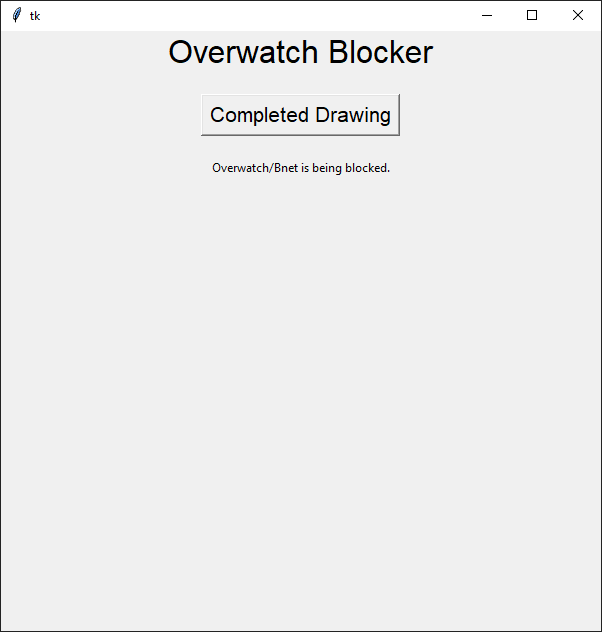
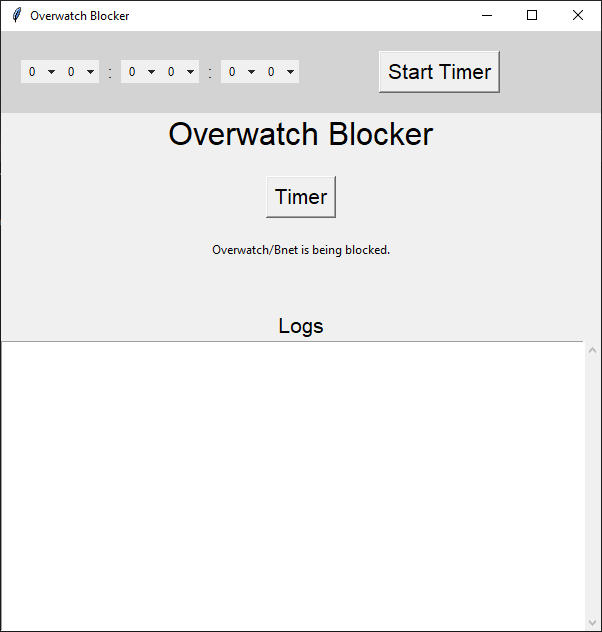
updated readme

Changed region(s): [[0.0, 0.0, 1.0, 0.3608], [0.3588, 0.3908, 0.6578, 0.4209], [0.4485, 0.5111, 0.5382, 0.5411]]

diff --git a/README.md b/README.md
@@ -14,7 +14,6 @@ This is a simple tool that detects if Overwatch or Battle.Net (Blizzard's launch
 
 ## Features in progress:<br/>
 * Improved UI.
-* A timer for blocking.
-* Logging on the UI.
 * Customizable set of programs to block.
 * Custom automatic detection of if a task has been completed.
+* Background running capabilities.
